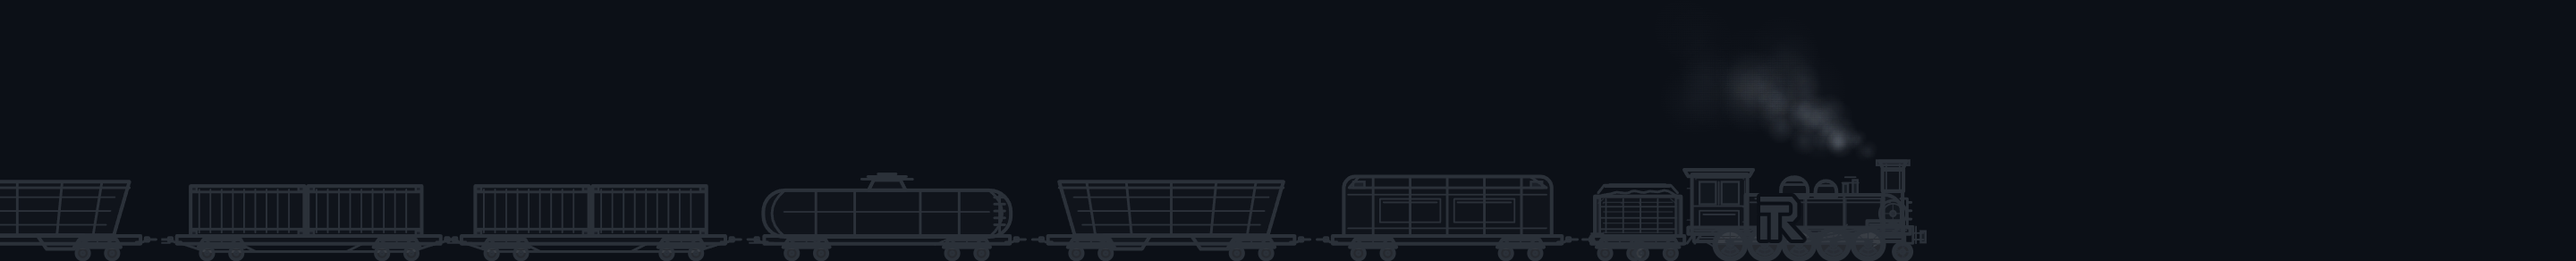
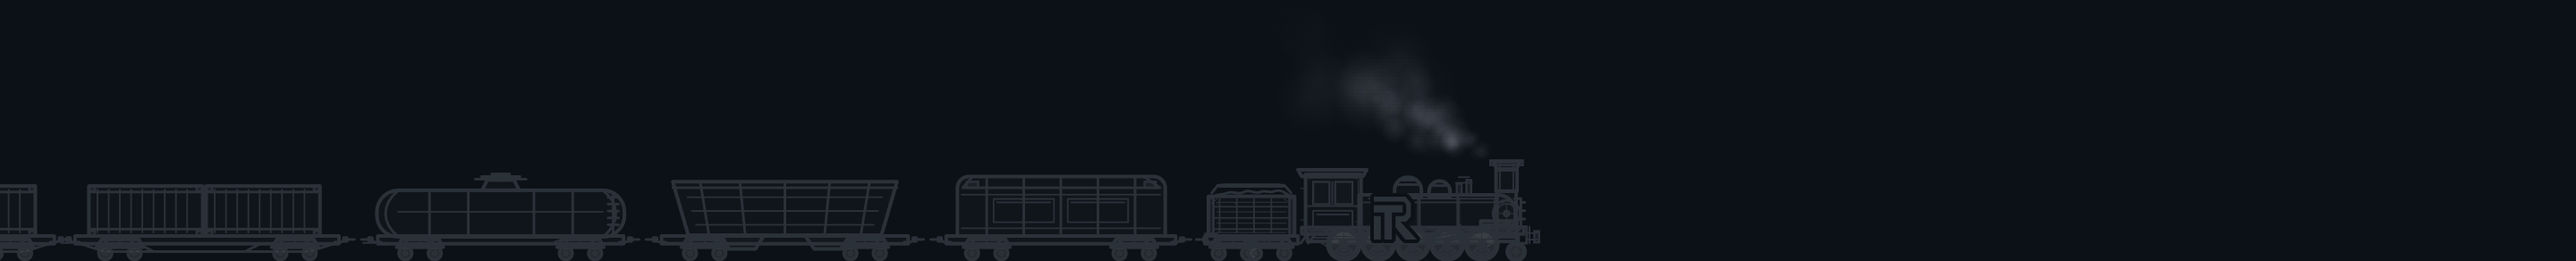
feat(mail): enhance train rendering with idle overlay and responsive adjustments

Changed region(s): [[0.0, 0.6164, 0.75, 1.0], [0.6562, 0.2774, 0.7188, 0.5856], [0.5, 0.3082, 0.5938, 0.5548]]

diff --git a/app/Support/MailSignature.php b/app/Support/MailSignature.php
@@ -160,10 +160,16 @@ class MailSignature
                 // absolut positionierte kombinierte GIF nicht darstellen.
                 // Moderne Clients sehen weiterhin nur das Haupt-GIF.
                 'TRAIN_STILL_SRC' => EmailTemplateBuilder::signatureTrainStillUrl($this->theme),
-                // Einfahrt, Idle-Rauch und sichtbarer Schlusszustand stecken
-                // gemeinsam im Haupt-GIF. Eine zweite Rauchquelle wuerde den
-                // Zug beim Antworten oder Weiterleiten wieder duplizieren.
-                'TRAIN_IDLE_SRC' => '',
+                // Nur der Rauch loopt. Die einmalige Einfahrt bleibt im
+                // Haupt-GIF und wird nie erneut abgespielt; die transparente
+                // Idle-Datei erscheint erst nach dessen 13-s-Timeline.
+                'TRAIN_IDLE_SRC' => ($this->staticAssets || ! $this->animated)
+                    ? ''
+                    : $this->withRemotePlaybackNonce(
+                        EmailTemplateBuilder::mailAssetUrl(
+                            'zug-dampf-idle-'.($this->theme === 'dark' ? 'dark' : 'light').'.gif'
+                        )
+                    ),
             ]
             : [
                 'LOGO_SRC' => EmailTemplateBuilder::inlineImage(
@@ -192,7 +198,13 @@ class MailSignature
                     $this->theme,
                     animated: false,
                 ),
-                'TRAIN_IDLE_SRC' => '',
+                'TRAIN_IDLE_SRC' => ($this->staticAssets || ! $this->animated)
+                    ? ''
+                    : EmailTemplateBuilder::inlineImage(
+                        'zug-dampf-idle-'.($this->theme === 'dark' ? 'dark' : 'light').'.gif',
+                        'image/gif',
+                        $this->playbackNonce,
+                    ),
             ];
 
         $symbole = $this->remoteAssets
@@ -319,7 +331,11 @@ class MailSignature
                 $this->contactRowValues($values),
             ));
 
-            return $this->finalizeTrainRendering($html, $outlookFallbackSource);
+            return $this->finalizeTrainRendering(
+                $html,
+                $outlookFallbackSource,
+                (string) ($values['TRAIN_IDLE_SRC'] ?? ''),
+            );
         }
 
         // Alle Ausgabewege projizieren den streng validierten Zug-Token in
@@ -360,7 +376,11 @@ class MailSignature
                 $this->contactRowValues($values),
             ));
 
-            return $this->finalizeTrainRendering($html, $outlookFallbackSource);
+            return $this->finalizeTrainRendering(
+                $html,
+                $outlookFallbackSource,
+                (string) ($values['TRAIN_IDLE_SRC'] ?? ''),
+            );
         }
 
         throw new \RuntimeException('Die veröffentlichte Signatur konnte nicht gerendert werden.');
@@ -398,12 +418,18 @@ class MailSignature
      * dem fehlerhaften legacy background-Attribut sofort sicher ausgeliefert,
      * ohne auf einen Seeder-Lauf angewiesen zu sein.
      */
-    private function finalizeTrainRendering(string $html, string $outlookFallbackSource): string
+    private function finalizeTrainRendering(
+        string $html,
+        string $outlookFallbackSource,
+        string $idleSource,
+    ): string
     {
-        return SignatureTrainCarrier::withMsoFallback(
-            $this->removeLegacyTrainBackground($html),
-            $outlookFallbackSource,
-        );
+        $html = $this->removeLegacyTrainBackground($html);
+        if ($this->animated && ! $this->staticAssets && trim($idleSource) !== '') {
+            $html = SignatureTrainCarrier::withIdleOverlay($html, $idleSource);
+        }
+
+        return SignatureTrainCarrier::withMsoFallback($html, $outlookFallbackSource);
     }
 
     /**

diff --git a/tests/Feature/SignatureTrainTimelineTest.php b/tests/Feature/SignatureTrainTimelineTest.php
@@ -147,9 +147,9 @@ class SignatureTrainTimelineTest extends TestCase
                     $decoded[$index],
                     $gif['frames'][$index]['transparentIndex'],
                     $width,
-                    (int) floor($width * 0.68),
+                    (int) floor($width * 0.53),
                     0,
-                    (int) ceil($width * 0.76),
+                    (int) ceil($width * 0.61),
                     (int) floor($height * 0.55),
                 ),
                 "{$filename}: Idle-Rauch ist in Frame {$index} vor der Ankunft sichtbar.",
@@ -161,9 +161,9 @@ class SignatureTrainTimelineTest extends TestCase
                 $decoded[$idleFrame],
                 $gif['frames'][$idleFrame]['transparentIndex'],
                 $width,
-                (int) floor($width * 0.68),
+                (int) floor($width * 0.53),
                 0,
-                (int) ceil($width * 0.76),
+                (int) ceil($width * 0.61),
                 (int) floor($height * 0.55),
             ),
             "{$filename}: Nach der Ankunft fehlt der Idle-Rauch.",
@@ -177,12 +177,12 @@ class SignatureTrainTimelineTest extends TestCase
             (int) floor($height * 0.55),
         );
         $this->assertNotNull($arrivalBounds);
-        $targetRight = (int) round($width * 0.75);
+        $targetRight = (int) round($width * 0.60);
         $this->assertEqualsWithDelta(
             $targetRight,
             $arrivalBounds['right'],
             max(3, (int) ceil($width * 0.005)),
-            "{$filename}: Zug endet nicht bei 75 Prozent der Leinwand.",
+            "{$filename}: Zug endet nicht bei 60 Prozent der Leinwand.",
         );
         $this->assertSame(
             $height,
@@ -379,7 +379,7 @@ class SignatureTrainTimelineTest extends TestCase
             }
             imagedestroy($image);
 
-            $this->assertEqualsWithDelta(2160, $right, 15, "{$theme}: PNG-Zug endet nicht bei 75 Prozent.");
+            $this->assertEqualsWithDelta(1728, $right, 15, "{$theme}: PNG-Zug endet nicht bei 60 Prozent.");
             $this->assertSame(292, $bottom, "{$theme}: PNG-Radauflage endet nicht an der unteren Assetkante.");
         }
     }
@@ -513,6 +513,7 @@ class SignatureTrainTimelineTest extends TestCase
         $this->assertStringContainsString('markeGroesse: MARKEN_GROESSE,', $generator);
         $this->assertStringContainsString('const START_X = -ZUG_BREITE;', $generator);
         $this->assertStringNotContainsString('START_X = -ZUG_BREITE *', $generator);
+        $this->assertStringContainsString('const ZIEL_RECHTS = Number(process.env.RT_ZIEL_RECHTS || 0.60);', $generator);
         $this->assertStringContainsString('const ZUG_Y = HOEHE - ZUG_HOEHE;', $generator);
         $this->assertStringContainsString('const oben = OUTLOOK_HOEHE - zielHoehe;', $generator);
         $this->assertStringContainsString('const WARTE_S = Number(process.env.RT_WARTE || 0.35);', $generator);

diff --git a/app/Support/Mail/SignatureTrainCarrier.php b/app/Support/Mail/SignatureTrainCarrier.php
@@ -276,6 +276,51 @@ final class SignatureTrainCarrier
     }
 
     /**
+     * Legt die transparente Endlos-Rauchschleife direkt in denselben
+     * absoluten Layer wie das Haupt-GIF. Dadurch erbt sie alle erlaubten
+     * Desktop-/Mobil-Ausschnitte pixelgleich, erzeugt keine eigene Hoehe und
+     * kann den Zug beim Antworten oder Weiterleiten nicht duplizieren.
+     * Ohne CSS-Keyframe-Unterstuetzung bleibt sie fail-closed unsichtbar.
+     */
+    public static function withIdleOverlay(string $html, string $source): string
+    {
+        $source = trim($source);
+        if ($source === '') {
+            return $html;
+        }
+        if (preg_match('/\b(?:data-rt-train-idle-(?:overlay|image)|rt-train-idle-(?:overlay|image))\b/i', $html) === 1) {
+            throw new RuntimeException('Die Signatur enthaelt bereits eine unzulaessige Idle-Rauchebene.');
+        }
+
+        $layers = [];
+        $images = [];
+        foreach (self::scanStartTags($html) as $tag) {
+            if ($tag['name'] === 'div' && self::sourceTagHasClass($tag, 'rt-sign-train-layer')) {
+                $layers[] = $tag;
+            }
+            if ($tag['name'] === 'img' && self::sourceTagHasClass($tag, 'rt-sign-train')) {
+                $images[] = $tag;
+            }
+        }
+        if (count($layers) !== 1 || count($images) !== 1) {
+            throw new RuntimeException('Die Idle-Rauchebene besitzt keinen eindeutigen Zugbild-Anker.');
+        }
+
+        $escapedSource = htmlspecialchars(
+            $source,
+            ENT_QUOTES | ENT_SUBSTITUTE | ENT_HTML5,
+            'UTF-8',
+        );
+        $overlay = '<span class="rt-train-idle-overlay" data-rt-train-idle-overlay '
+            .'style="position:absolute;left:0;right:auto;top:0;bottom:0;display:block;width:100%;height:100%;margin:0;overflow:hidden;opacity:0;visibility:hidden;animation:rt-train-idle-reveal 1ms step-start 13s forwards;font-size:0;line-height:0;mso-hide:all;">'
+            .'<img class="rt-train-idle-image" data-rt-train-idle-image src="'.$escapedSource.'" width="720" alt="" '
+            .'style="position:absolute;left:0;right:auto;bottom:0;display:block;width:100%;max-width:100%;height:auto;margin:0;border:0;outline:none;text-decoration:none;mso-hide:all;">'
+            .'</span>';
+
+        return substr_replace($html, $overlay, $images[0]['tagEnd'] + 1, 0);
+    }
+
+    /**
      * Entfernt ein altes HTML-background-Attribut ausschliesslich am zuvor
      * DOM- und quellseitig korrelierten Carrier. Aehnlich benannte data-*
      * Attribute oder Attributtexte koennen den positionssicheren Scanner

diff --git a/resources/views/emails/parts/responsive-css.blade.php b/resources/views/emails/parts/responsive-css.blade.php
@@ -32,13 +32,38 @@
     $border = $border ?? '#e6e8ec';
 @endphp
 /* RT_SERVER_SIGNATURE_RUNTIME_START
-   Stabiler Einhaengepunkt fuer freigegebenes Signatur-CSS. Zug-Einfahrt,
-   Idle-Rauch und Schlusszustand stecken vollstaendig im einen Haupt-GIF;
-   ein zweites Rauch-Overlay wird nicht mehr erzeugt. */
+   Stabiler Einhaengepunkt fuer freigegebenes Signatur-CSS. Die Zug-Einfahrt
+   laeuft einmalig im Haupt-GIF. Danach wird nur die transparente, kleine
+   Rauchschleife sichtbar; der Zug selbst wird dadurch nicht dupliziert. */
+@keyframes rt-train-idle-reveal {
+  0% { opacity: 0; visibility: hidden; }
+  100% { opacity: 1; visibility: visible; }
+}
+.rt-train-idle-overlay {
+  opacity: 0;
+  visibility: hidden;
+}
+@supports (animation-name: rt-train-idle-reveal) {
+  .rt-train-idle-overlay {
+    animation-name: rt-train-idle-reveal;
+    animation-duration: 1ms;
+    animation-timing-function: step-start;
+    animation-delay: 13s;
+    animation-iteration-count: 1;
+    animation-fill-mode: forwards;
+  }
+}
+@media (prefers-reduced-motion: reduce) {
+  .rt-train-idle-overlay {
+    animation: none !important;
+    opacity: 0 !important;
+    visibility: hidden !important;
+  }
+}
 
 /* Der Zug bleibt ein regulaeres IMG. Nur sein absoluter Layer wird auf
    kleinen Flaechen breiter als der Carrier gesetzt; so endet die Lok wie im
-   Desktoplayout bei etwa 75 Prozent, ohne eine eigene Tabellenzeile. */
+   Desktoplayout bei etwa 60 Prozent, ohne eine eigene Tabellenzeile. */
 /* ---- Tablet quer: enger setzen, aber zweispaltig bleiben ---- */
 @media only screen and (max-width: 1000px) {
 .rt-pad { padding-left: 30px !important; padding-right: 30px !important; }
@@ -148,7 +173,7 @@ img.rt-logo { width: 150px !important; }
   max-width: none !important;
   margin: 0 !important;
 }
-/* Das Asset selbst endet bei rund 75 Prozent. Fuer den Standardausschnitt ist
+/* Das Asset selbst endet bei rund 60 Prozent. Fuer den Standardausschnitt ist
    deshalb keine 200-Prozent-Vergroesserung noetig; sie legte den kompletten
    Zug ueber die unteren Kontaktzeilen. Nur die expliziten Detailausschnitte
    vergroessern weiterhin. */

diff --git a/app/Support/EmailTemplateBuilder.php b/app/Support/EmailTemplateBuilder.php
@@ -913,7 +913,7 @@ class EmailTemplateBuilder
                 'GRUND_MARKE_SRC' => 'cid:railtime-signature-watermark',
                 'TRAIN_SRC' => '',
                 'TRAIN_STILL_SRC' => 'cid:railtime-train-still',
-                'TRAIN_IDLE_SRC' => '',
+                'TRAIN_IDLE_SRC' => 'cid:railtime-train-idle',
             ]);
             $signatureLayout = [
                 'outlookTrainSrc' => 'cid:railtime-train',
@@ -1155,7 +1155,7 @@ class EmailTemplateBuilder
             'ICON_RT_STILL_SRC' => self::httpsMailAssetUrl(str_replace('.gif', '.png', $markAsset)),
             'TRAIN_SRC' => self::httpsMailAssetUrl("zug-dampf-{$variant}.gif"),
             'TRAIN_STILL_SRC' => self::httpsMailAssetUrl("zug-dampf-{$variant}.png"),
-            'TRAIN_IDLE_SRC' => '',
+            'TRAIN_IDLE_SRC' => self::httpsMailAssetUrl("zug-dampf-idle-{$variant}.gif"),
             'GRUND_RASTER_SRC' => self::httpsMailAssetUrl("signatur-raster-{$variant}.png"),
             'GRUND_MARKE_SRC' => self::httpsMailAssetUrl("signatur-marke-{$variant}.png"),
         ], array_map(
@@ -1847,6 +1847,7 @@ TEXT;
         $markAsset = self::emailMarkAsset($theme);
         $trainAsset = 'zug-dampf-'.($theme === 'dark' ? 'dark' : 'light').'.gif';
         $trainStillAsset = 'zug-dampf-'.($theme === 'dark' ? 'dark' : 'light').'.png';
+        $trainIdleAsset = 'zug-dampf-idle-'.($theme === 'dark' ? 'dark' : 'light').'.gif';
         $gridAsset = 'signatur-raster-'.($theme === 'dark' ? 'dark' : 'light').'.png';
         $watermarkAsset = 'signatur-marke-'.($theme === 'dark' ? 'dark' : 'light').'.png';
         $inlineImages = [
@@ -1873,6 +1874,10 @@ TEXT;
             'railtime-train-still' => [
                 'filename' => $trainStillAsset,
                 'content' => file_get_contents(self::masterPath('assets/'.$trainStillAsset)),
+            ],
+            'railtime-train-idle' => [
+                'filename' => $trainIdleAsset,
+                'content' => file_get_contents(self::masterPath('assets/'.$trainIdleAsset)),
             ],
             'railtime-signature-grid' => [
                 'filename' => $gridAsset,

diff --git a/tests/Feature/MailDocumentEditorTest.php b/tests/Feature/MailDocumentEditorTest.php
@@ -158,7 +158,7 @@ class MailDocumentEditorTest extends TestCase
         $this->assertStringNotContainsString('Von Hand geaendert', (string) $frisch->html);
         $this->assertSame(MailDocumentStatus::Published, $frisch->status);
         $this->assertSame(1, $frisch->version);
-        $this->assertSame(13, data_get($frisch->builder_data, 'railtime.schema'));
+        $this->assertSame(14, data_get($frisch->builder_data, 'railtime.schema'));
     }
 
     public function test_der_seeder_veroeffentlicht_vorlage_und_signatur_als_idempotenten_release(): void
@@ -178,7 +178,7 @@ class MailDocumentEditorTest extends TestCase
             $dokument = $this->document($kind);
             $this->assertSame(MailDocumentStatus::Published, $dokument->status, $kind->value);
             $this->assertSame(1, $dokument->version, $kind->value);
-            $this->assertSame(13, data_get($dokument->builder_data, 'railtime.schema'), $kind->value);
+            $this->assertSame(14, data_get($dokument->builder_data, 'railtime.schema'), $kind->value);
             $this->assertSame(trim((string) $dokument->html), trim((string) $dokument->published_html), $kind->value);
             $this->assertSame((string) data_get($dokument->builder_data, 'pages.0.component'), (string) $dokument->html, $kind->value);
             $this->assertSame(
@@ -221,7 +221,7 @@ class MailDocumentEditorTest extends TestCase
 
         foreach ([$template, $signatur] as $dokument) {
             $this->assertSame(MailDocumentStatus::Published, $dokument->status);
-            $this->assertSame(13, data_get($dokument->builder_data, 'railtime.schema'));
+            $this->assertSame(14, data_get($dokument->builder_data, 'railtime.schema'));
             $this->assertSame(trim((string) $dokument->html), trim((string) $dokument->published_html));
             $this->assertSame((string) data_get($dokument->builder_data, 'pages.0.component'), (string) $dokument->html);
         }

diff --git a/app/Services/PageBuilder/PageBuilderPreviewService.php b/app/Services/PageBuilder/PageBuilderPreviewService.php
@@ -99,7 +99,7 @@ final class PageBuilderPreviewService
         $signature = $signatureDocument === null
             ? ''
             : $this->renderTokenHtml(
-                // Die Livevorschau nutzt denselben regulaeren Ein-GIF-Pfad
+                // Die Livevorschau nutzt denselben regulaeren Haupt-GIF-Pfad
                 // wie Versand, Kopieransicht und Weiterleitung.
                 SignatureTrainCarrier::projectAsImage(
                     (string) $signatureDocument->html,
@@ -107,6 +107,12 @@ final class PageBuilderPreviewService
                 ),
                 array_merge($values, ['TRAIN_SRC' => '']),
             );
+        if ($signature !== '' && $animated && trim((string) ($values['TRAIN_IDLE_SRC'] ?? '')) !== '') {
+            $signature = SignatureTrainCarrier::withIdleOverlay(
+                $signature,
+                (string) $values['TRAIN_IDLE_SRC'],
+            );
+        }
 
         $html = $this->renderTokenHtml((string) $document->html, $values, [
             'SIGNATURE_BLOCK' => $signature,

diff --git a/app/Support/Mail/EmailHtmlSanitizer.php b/app/Support/Mail/EmailHtmlSanitizer.php
@@ -388,6 +388,7 @@ final class EmailHtmlSanitizer
         'rt-sign-cell', 'rt-sign-content', 'rt-sign-logo', 'rt-sign-identity', 'rt-sign-name',
         'rt-sign-stage', 'rt-sign-train', 'rt-sign-train-layer',
         'rt-train-idle-overlay', 'rt-train-idle-runtime-layer', 'rt-train-idle-surface',
+        'rt-train-idle-image',
         // Die Anschrift steht seit dem symmetrischen Umbau nur noch einmal
         // in der Firmenspalte. Die beiden Namen bleiben zugelassen, damit
         // frueher veroeffentlichte Dokumente keinen Hinweis ausloesen.

diff --git a/database/seeders/MailDocumentSeeder.php b/database/seeders/MailDocumentSeeder.php
@@ -47,8 +47,9 @@ final class MailDocumentSeeder extends Seeder
      * 11 Zug-IMG im absoluten, hoehenneutralen Layer hinter den Kontaktdaten
      * 12 Mail-sichere Presets fuer Zugbreite, Desktop- und Mobil-Ausschnitt
      * 13 Stabiler Block-Positionierungskontext und Outlook-Zugfallback
+     * 14 Zugmotiv bei 60 Prozent, kompakte 1,5x-Assets und dauerhafter Idle-Rauch
      */
-    private const STARTER_SCHEMA = 13;
+    private const STARTER_SCHEMA = 14;
 
     public function run(): void
     {
